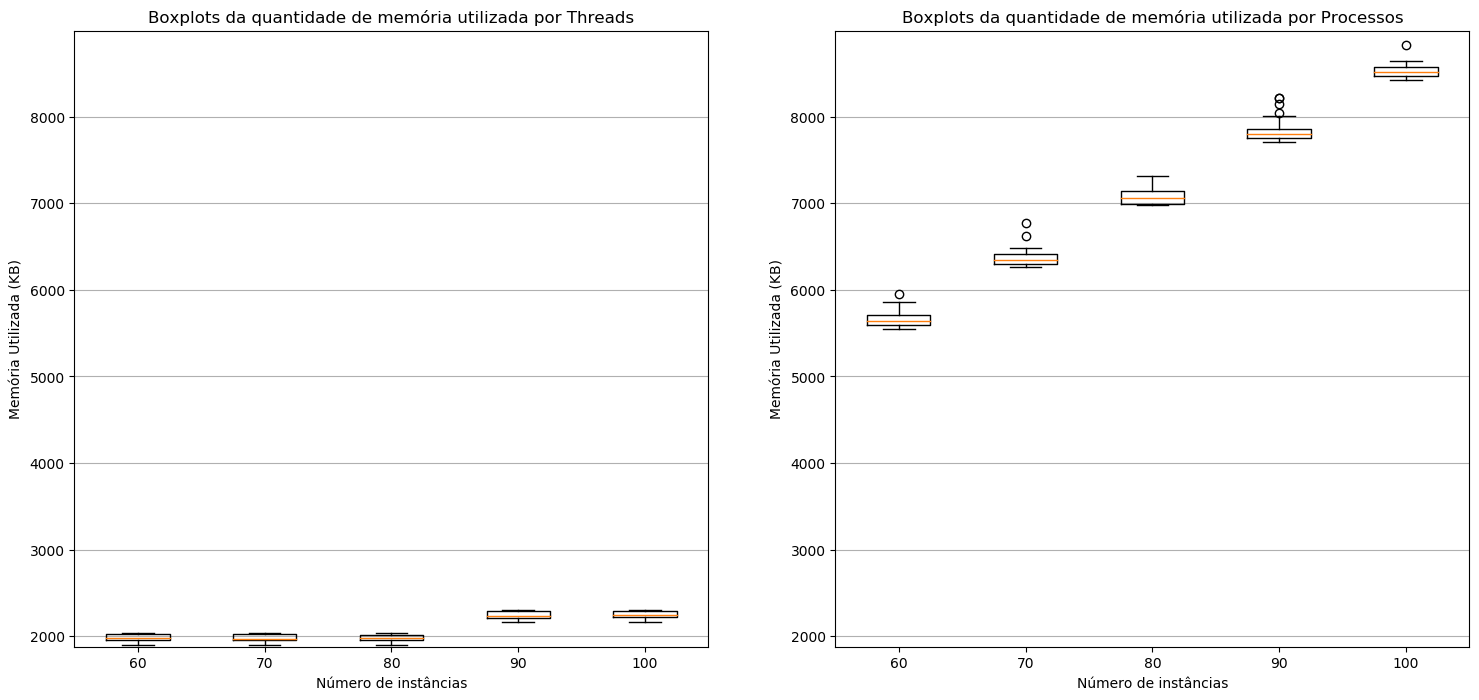
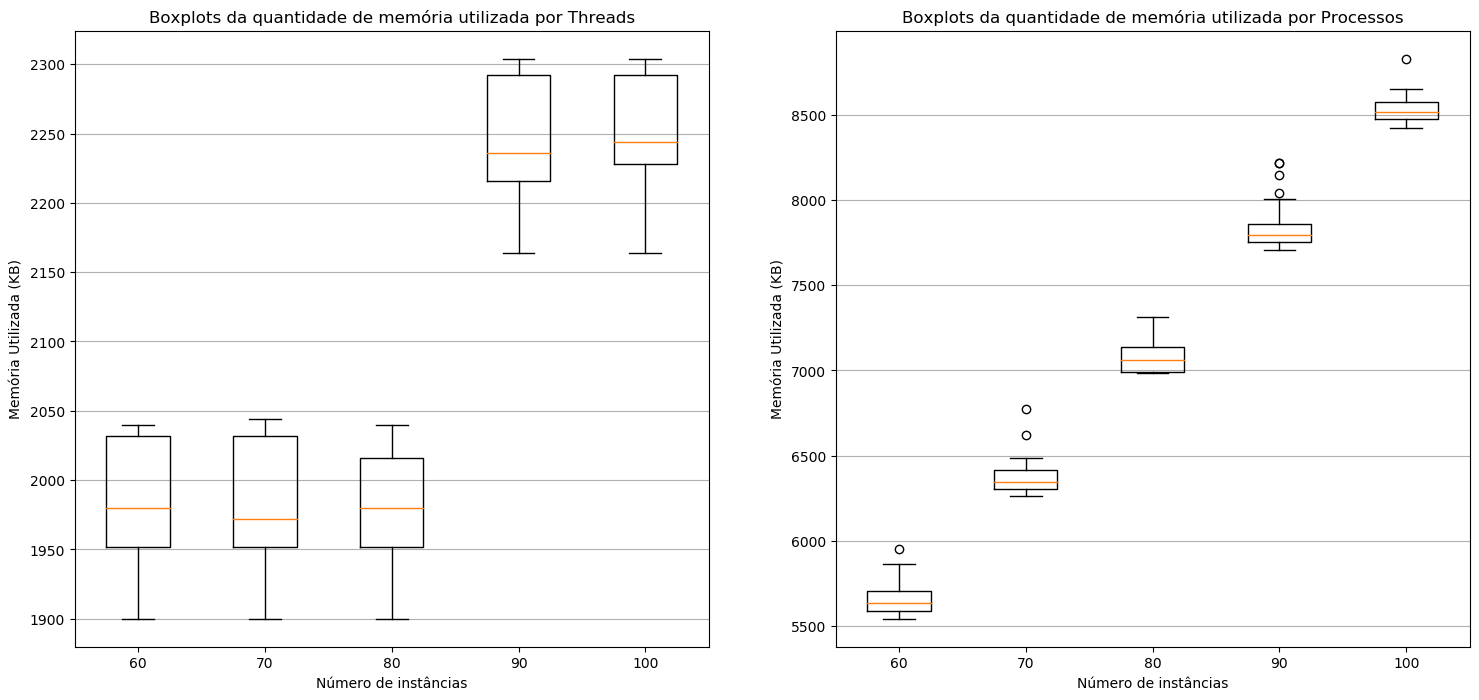
boxplots separados p/ cada unid. de milhar + hist

diff --git a/questao_3/output/plot_graphics.py b/questao_3/output/plot_graphics.py
@@ -96,7 +96,7 @@ plt.plot(keys, mean_proc_time_list, label='Processos')
 plt.plot(keys, mean_thread_time_list, label='Threads')
 plt.xlabel('Número de instâncias')
 plt.ylabel('Tempo (s)')
-plt.title('Tempo médio de criação')
+plt.title('Tempo total médio de criação')
 plt.legend()
 plt.savefig('rect_proc_x_thread_time.png', bbox_inches='tight')
 plt.clf()
@@ -105,11 +105,36 @@ plt.plot(keys, mean_proc_mem_list, label='Processos')
 plt.plot(keys, mean_thread_mem_list, label='Threads')
 plt.xlabel('Número de instâncias')
 plt.ylabel('Memória Utilizada (KB)')
-plt.title('Quantidade média de memória utilizada')
+plt.title('Quantidade total média de memória utilizada')
 plt.legend()
 plt.savefig('rect_proc_x_thread_mem.png', bbox_inches='tight')
 plt.clf()
 
+## PER-THREAD AND PER-PROCESS DATA HISTOGRAMS
+
+thread_hist_mem = [statistics.mean(np.array(thread_mem_data_map[key]) / key) for key in keys]
+thread_hist_time = [statistics.mean(np.array(thread_time_data_map[key]) / key) for key in keys]
+proc_hist_mem = [statistics.mean(np.array(proc_mem_data_map[key]) / key) for key in keys]
+proc_hist_time = [statistics.mean(np.array(proc_time_data_map[key]) / key) for key in keys]
+
+print(thread_hist_mem)
+print(thread_hist_time)
+print(proc_hist_mem)
+print(proc_hist_time)
+
+fig, axs = plt.subplots(1, 2, sharey=True, tight_layout=True)
+# We can set the number of bins with the `bins` kwarg
+axs[0].hist(thread_hist_mem, bins=20)
+axs[1].hist(proc_hist_mem, bins=20)
+plt.savefig('hist_mem.png', bbox_inches='tight')
+plt.clf()
+
+fig, axs = plt.subplots(1, 2, sharey=True, tight_layout=True)
+# We can set the number of bins with the `bins` kwarg
+axs[0].hist(thread_hist_time, bins=20)
+axs[1].hist(proc_hist_time, bins=20)
+plt.savefig('hist_time.png', bbox_inches='tight')
+plt.clf()
 
 ## BOXPLOT GRAPHS ##
 
@@ -130,8 +155,8 @@ ax[1].set_xticklabels(keys[:5])
 ax[0].set_title('Boxplots da quantidade de memória utilizada por Threads')
 ax[1].set_title('Boxplots da quantidade de memória utilizada por Processos')
 # Setting the scale to facilitate the data comparisson
-ax[0].set_ylim(top=ax[1].get_ylim()[1])
-ax[1].set_ylim(bottom=ax[0].get_ylim()[0])
+# ax[0].set_ylim(top=ax[1].get_ylim()[1])
+# ax[1].set_ylim(bottom=ax[0].get_ylim()[0])
 for axe in ax:
     axe.yaxis.grid(True)
     axe.set_xlabel('Número de instâncias')
@@ -149,8 +174,8 @@ ax[1].set_xticklabels(keys[:5])
 ax[0].set_title('Boxplots do tempo de criação de Threads')
 ax[1].set_title('Boxplots do tempo de criação de Processos')
 # Setting the scale to facilitate the data comparisson
-ax[0].set_ylim(top=ax[1].get_ylim()[1])
-ax[1].set_ylim(bottom=ax[0].get_ylim()[0])
+# ax[0].set_ylim(top=ax[1].get_ylim()[1])
+# ax[1].set_ylim(bottom=ax[0].get_ylim()[0])
 for axe in ax:
     axe.yaxis.grid(True)
     axe.set_xlabel('Número de instâncias')
@@ -171,8 +196,8 @@ ax[0].set_title('Boxplots da quantidade de memória utilizada por Threads')
 ax[1].set_title('Boxplots da quantidade de memória utilizada por Processos')
 
 # Setting the scale to facilitate the data comparisson
-ax[0].set_ylim(top=ax[1].get_ylim()[1])
-ax[1].set_ylim(bottom=ax[0].get_ylim()[0])
+# ax[0].set_ylim(top=ax[1].get_ylim()[1])
+# ax[1].set_ylim(bottom=ax[0].get_ylim()[0])
 for axe in ax:
     axe.yaxis.grid(True)
     axe.set_xlabel('Número de instâncias')
@@ -190,8 +215,8 @@ ax[1].set_xticklabels(keys[5:10])
 ax[0].set_title('Boxplots do tempo de criação de Threads')
 ax[1].set_title('Boxplots do tempo de criação de Processos')
 # Setting the scale to facilitate the data comparisson
-ax[0].set_ylim(top=ax[1].get_ylim()[1])
-ax[1].set_ylim(bottom=ax[0].get_ylim()[0])
+# ax[0].set_ylim(top=ax[1].get_ylim()[1])
+# ax[1].set_ylim(bottom=ax[0].get_ylim()[0])
 for axe in ax:
     axe.yaxis.grid(True)
     axe.set_xlabel('Número de instâncias')
@@ -211,8 +236,8 @@ ax[1].set_xticklabels(keys[10:15])
 ax[0].set_title('Boxplots da quantidade de memória utilizada por Threads')
 ax[1].set_title('Boxplots da quantidade de memória utilizada por Processos')
 # Setting the scale to facilitate the data comparisson
-ax[0].set_ylim(top=ax[1].get_ylim()[1])
-ax[1].set_ylim(bottom=ax[0].get_ylim()[0])
+# ax[0].set_ylim(top=ax[1].get_ylim()[1])
+# ax[1].set_ylim(bottom=ax[0].get_ylim()[0])
 for axe in ax:
     axe.yaxis.grid(True)
     axe.set_xlabel('Número de instâncias')
@@ -228,8 +253,8 @@ bp1 = ax[1].boxplot(proc_box_time[10:15])
 ax[0].set_xticklabels(keys[10:15])
 ax[1].set_xticklabels(keys[10:15])
 # Setting the scale to facilitate the data comparisson
-ax[0].set_ylim(top=ax[1].get_ylim()[1])
-ax[1].set_ylim(bottom=ax[0].get_ylim()[0])
+# ax[0].set_ylim(top=ax[1].get_ylim()[1])
+# ax[1].set_ylim(bottom=ax[0].get_ylim()[0])
 ax[0].set_title('Boxplots do tempo de criação de Threads')
 ax[1].set_title('Boxplots do tempo de criação de Processos')
 for axe in ax:
@@ -251,8 +276,8 @@ ax[1].set_xticklabels(keys[15:])
 ax[0].set_title('Boxplots da quantidade de memória utilizada por Threads')
 ax[1].set_title('Boxplots da quantidade de memória utilizada por Processos')
 # Setting the scale to facilitate the data comparisson
-ax[0].set_ylim(top=ax[1].get_ylim()[1])
-ax[1].set_ylim(bottom=ax[0].get_ylim()[0])
+# ax[0].set_ylim(top=ax[1].get_ylim()[1])
+# ax[1].set_ylim(bottom=ax[0].get_ylim()[0])
 for axe in ax:
     axe.yaxis.grid(True)
     axe.set_xlabel('Número de instâncias')
@@ -270,14 +295,35 @@ ax[1].set_xticklabels(keys[15:])
 ax[0].set_title('Boxplots do tempo de criação de Threads')
 ax[1].set_title('Boxplots do tempo de criação de Processos')
 # Setting the scale to facilitate the data comparisson
-ax[0].set_ylim(top=ax[1].get_ylim()[1])
-ax[1].set_ylim(bottom=ax[0].get_ylim()[0])
+# ax[0].set_ylim(top=ax[1].get_ylim()[1])
+# ax[1].set_ylim(bottom=ax[0].get_ylim()[0])
 for axe in ax:
     axe.yaxis.grid(True)
     axe.set_xlabel('Número de instâncias')
     axe.set_ylabel('Tempo (s)')
 plt.savefig('boxplot_6K_10K_time.png', bbox_inches='tight')
 plt.clf()
+
+
+## SEPARATED MEMORY BOXPLOTS - 1K to 10K
+
+for i in range(10):
+    fig, ax = plt.subplots(nrows=1, ncols=2, figsize=(18, 8))
+    bp0 = ax[0].boxplot(thread_box_mem[i + 10])
+    bp1 = ax[1].boxplot(proc_box_mem[i + 10])
+    ax[0].set_xticklabels(keys[i + 10: i + 11])
+    ax[1].set_xticklabels(keys[i + 10: i + 11])
+    ax[0].set_title('Boxplot da quantidade de memória utilizada por Threads')
+    ax[1].set_title('Boxplot da quantidade de memória utilizada por Processos')
+    # Setting the scale to facilitate the data comparisson
+    # ax[0].set_ylim(top=ax[1].get_ylim()[1])
+    # ax[1].set_ylim(bottom=ax[0].get_ylim()[0])
+    for axe in ax:
+        axe.yaxis.grid(True)
+        axe.set_xlabel('Número de instâncias')
+        axe.set_ylabel('Memória Utilizada (KB)')
+    plt.savefig('boxplot_' + str(i + 1) + 'K_mem.png', bbox_inches='tight')
+    plt.clf()
 
 ## INCREASE PERCENTAGE GRAPH ##
 
@@ -295,7 +341,7 @@ rects1 = ax.bar(np.array(range(0, len(keys))) - column_width / 2, np.array(mem_i
 rects2 = ax.bar(np.array(range(0, len(keys))) + column_width / 2, np.array(time_increase_perc), column_width, label='Tempo (s)')
 ax.set_ylabel('Taxa de variação (%)')
 ax.set_xlabel('Número de instâncias')
-ax.set_title('Aumento dos valores de tempo e memória com múltiplas instâncias de threads para processos')
+ax.set_title('Taxa de variação de tempo e memória de processos em relação à threads')
 ax.set_xticks(np.array(range(0, len(keys))))
 ax.set_xticklabels(keys)
 ax.legend(loc='upper left', fontsize='x-large')
